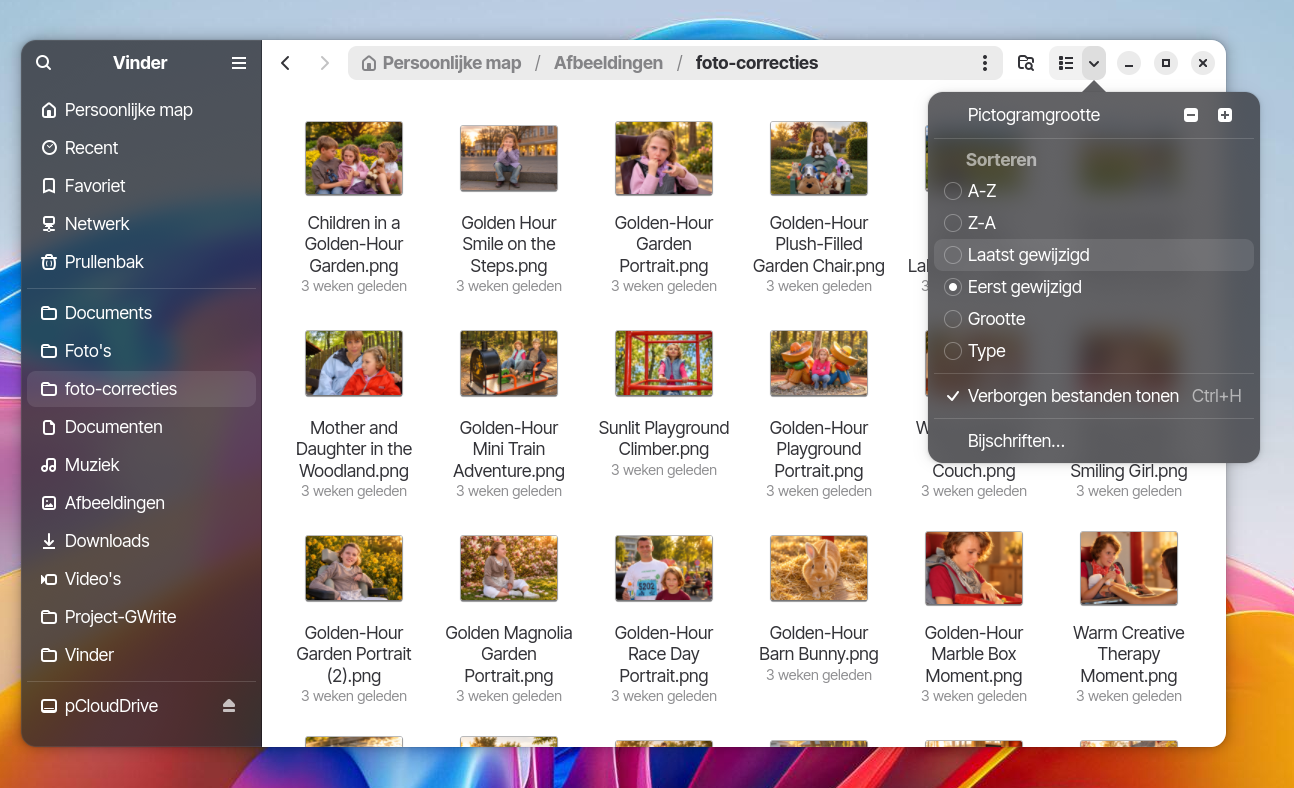
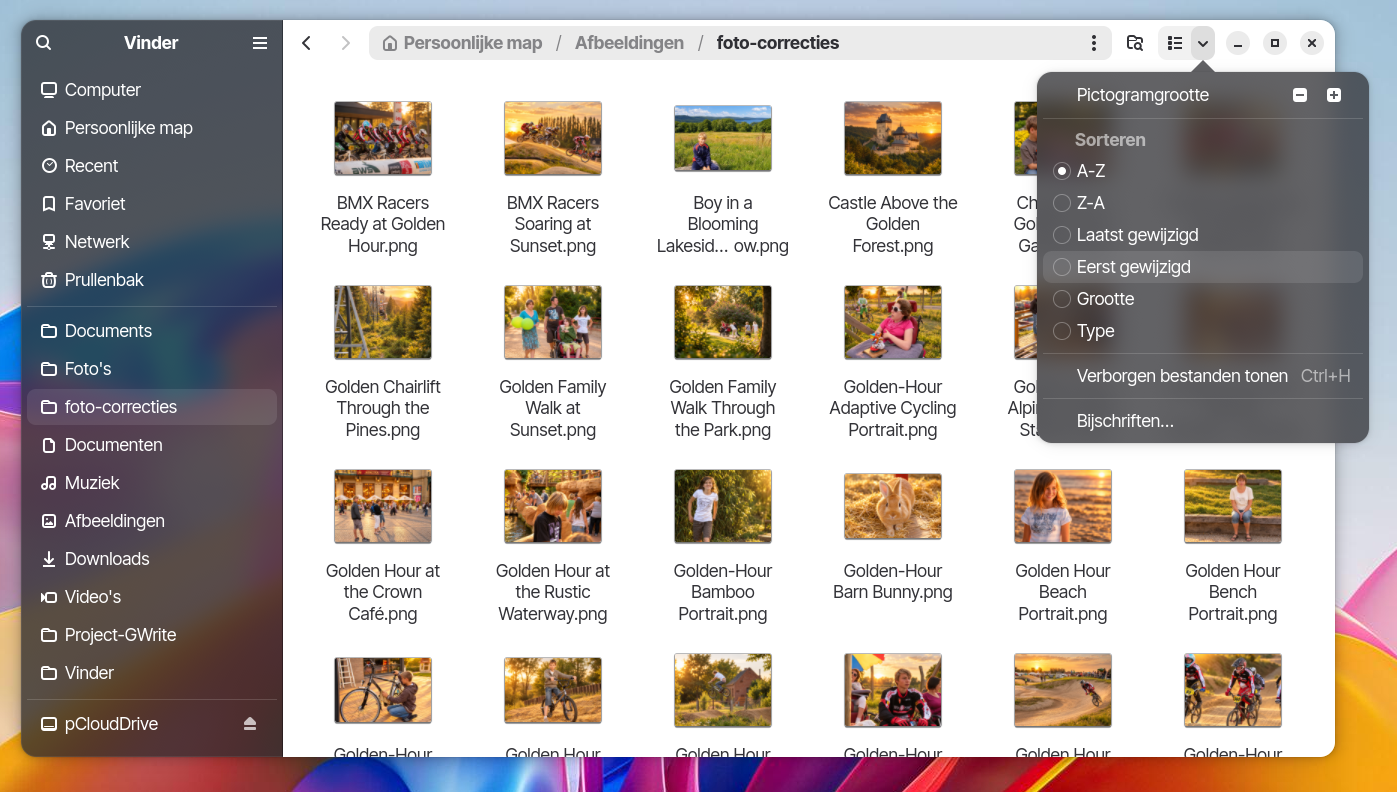
Document the Computer sidebar entry

diff --git a/README.md b/README.md
@@ -2,7 +2,11 @@
 
 Vinder is a GNOME file manager based on [GNOME Files (Nautilus)](https://apps.gnome.org/Nautilus/). It adds an Interface dialog with theme and blur controls.
 
-![Vinder showing a blurred sidebar and menu beside a light file grid](docs/vinder-screenshot.png)
+![Vinder showing Computer at the top of the sidebar beside a grid of image thumbnails](docs/vinder-screenshot.png)
+
+## Computer
+
+Select **Computer** at the top of the sidebar to browse the filesystem root. In the Flatpak, Vinder opens the host filesystem root when Flatpak exposes it.
 
 ## Appearance
 
